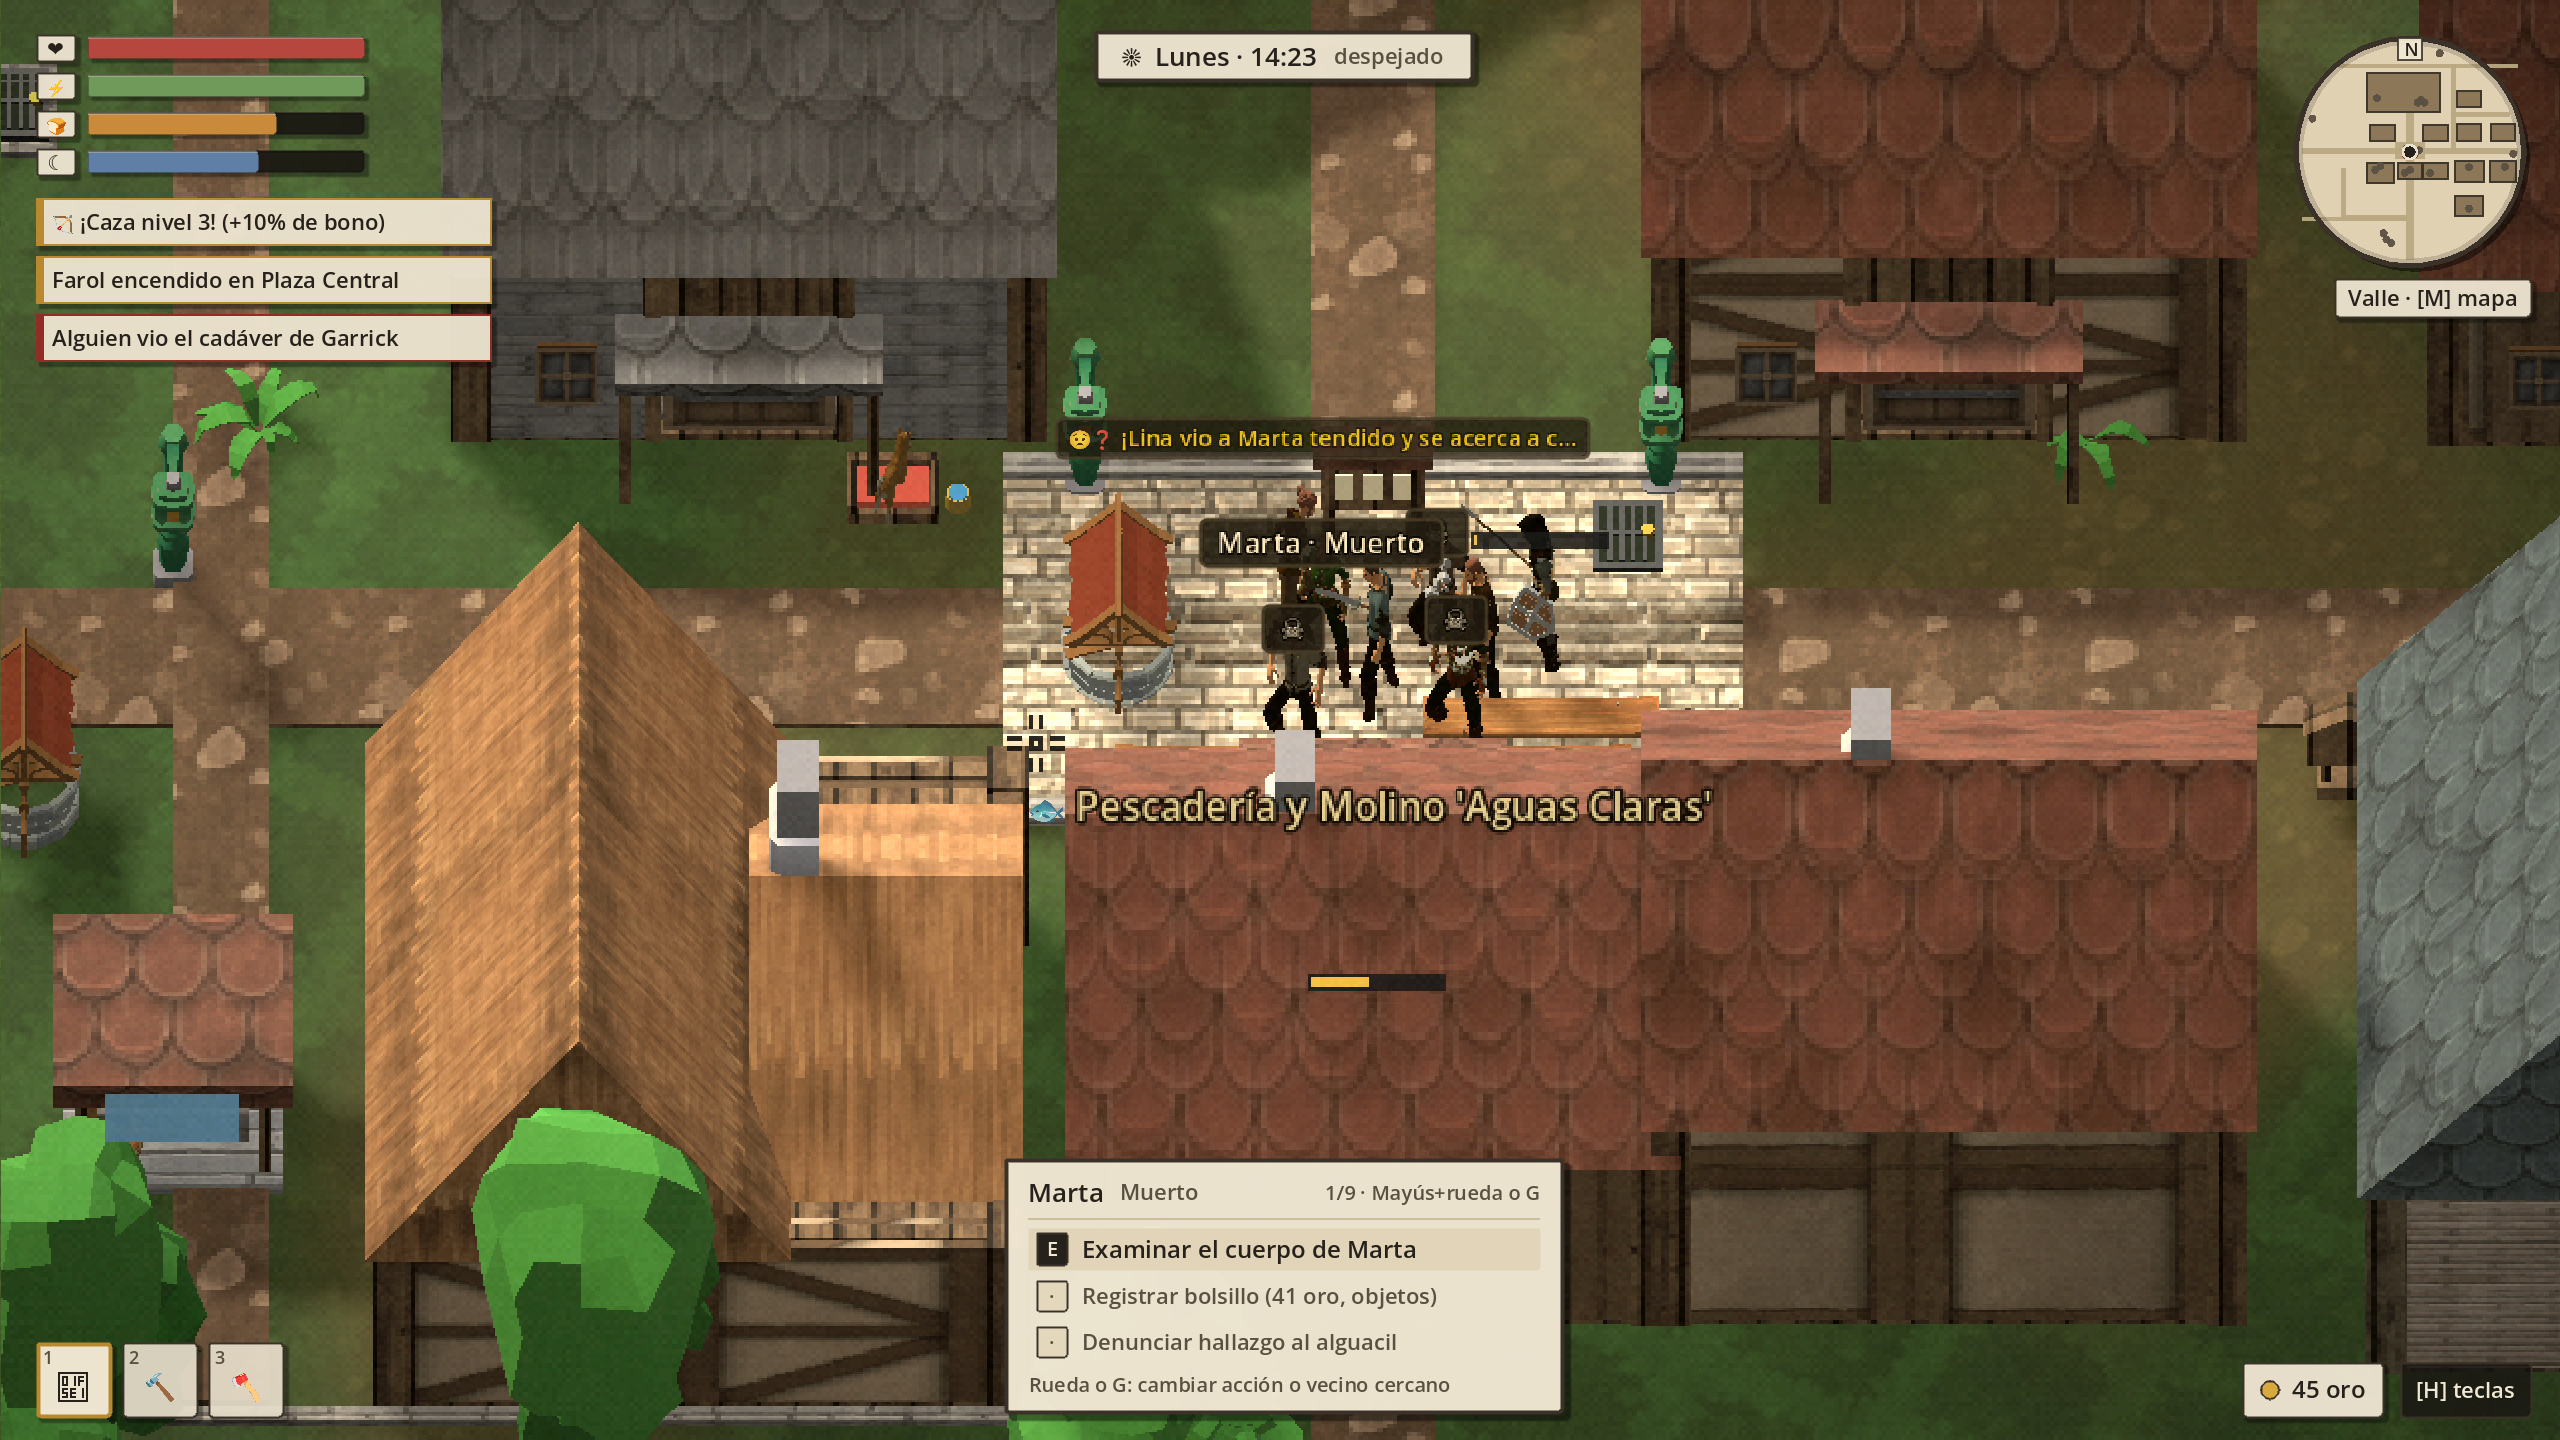
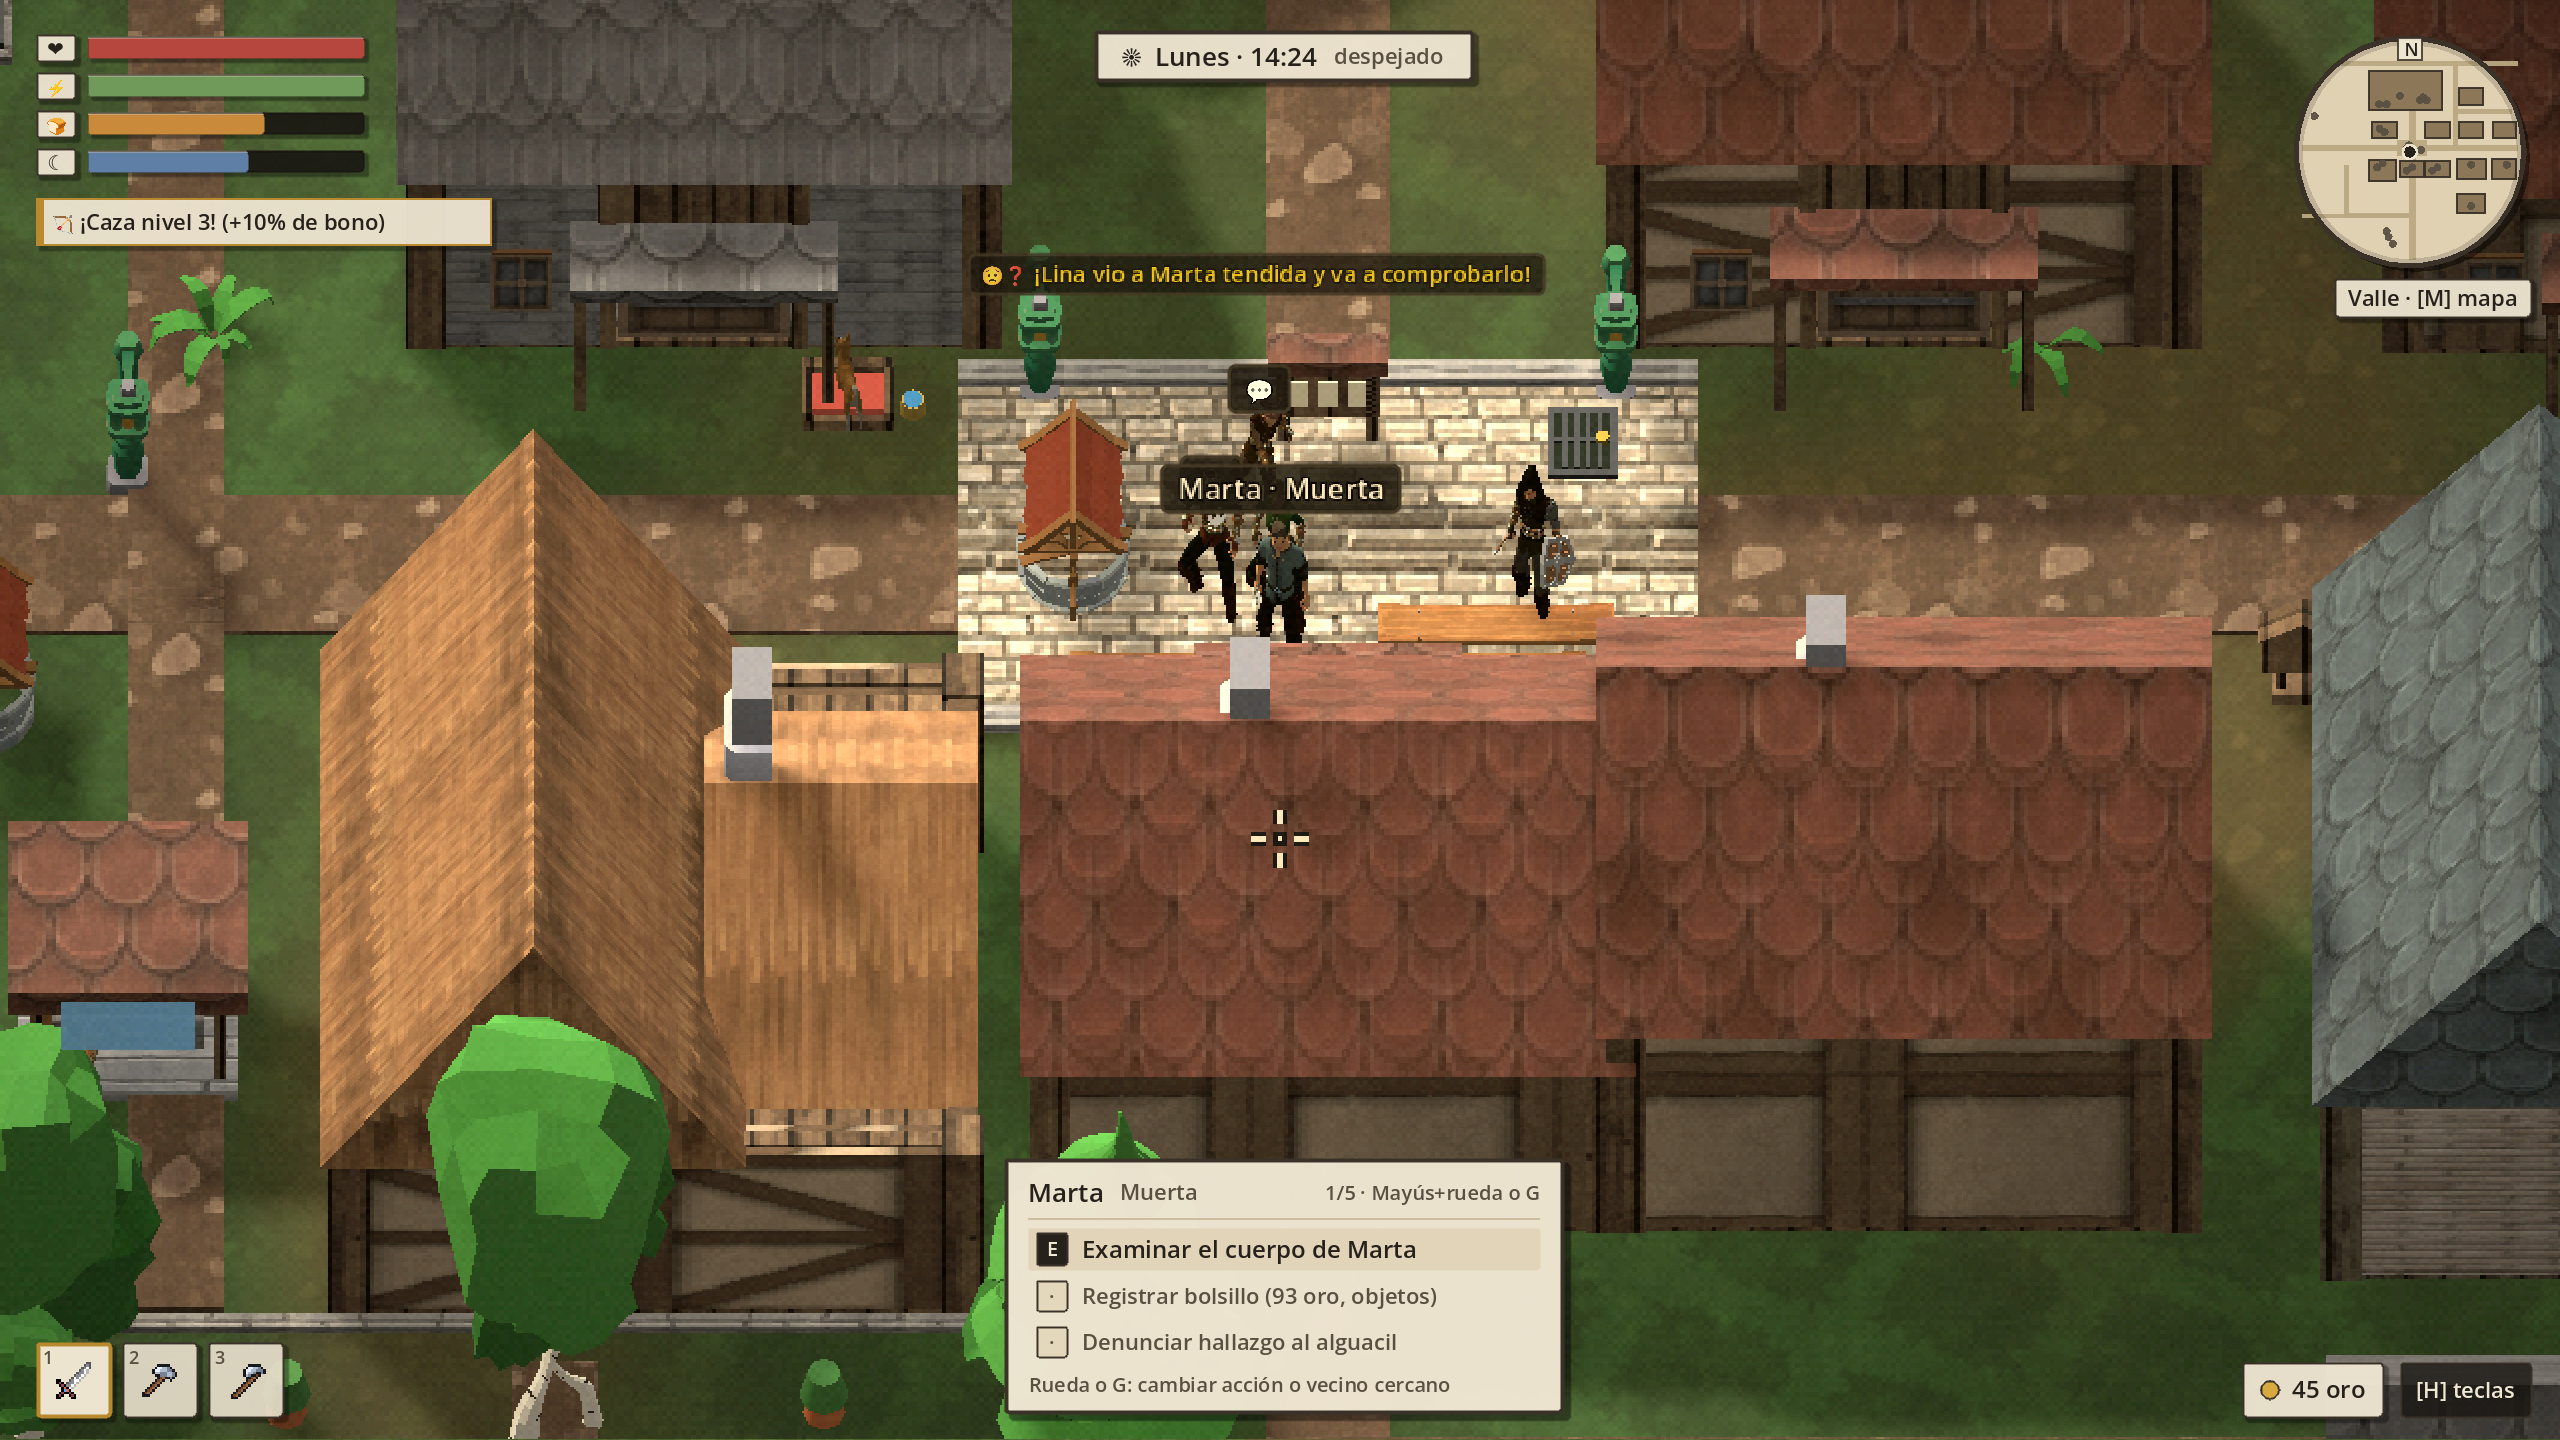
fix(ui): resolve 5 details from Claude review on paper-and-ink HUD

diff --git a/docs/FALLOS_VISIBLES.md b/docs/FALLOS_VISIBLES.md
@@ -98,12 +98,12 @@
   la cuadrícula pasó a ser un dibujo de rombos que se repite por todo el suelo; no es natural y no le gusta. Arreglarlo
   más adelante con una hierba sin patrón visible (manchas irregulares, variación de tono).
 
-- [ ] **Revisión de Claude a la interfaz nueva** (2026-11-07, captura `ui_after_plaza_3d.png`): la mejora es grande y
+- [x] ✅ (2026-11-07) **Revisión de Claude a la interfaz nueva** (2026-11-07, captura `ui_after_plaza_3d.png`): la mejora es grande y
   se aprueba; quedan detalles pequeños: (1) **género**: «Marta · Muerto» y «vio a Marta tendido» deben ser «Muerta» y
   «tendida» (en la etiqueta, en la tarjeta de [E] y en los bocadillos); (2) el nombre del edificio («Pescadería y
   Molino 'Aguas Claras'») sigue flotando en grande sobre el tejado: más pequeño o solo al acercarse; (3) una barrita
   amarilla de progreso suelta sobre el tejado, lejos de cualquier vecino; (4) el icono de la mano 1 parece letras
-  revueltas en vez de un dibujo; (5) el bocadillo de Lina sale cortado con «…». Arreglar sin rehacer nada más.
+  revueltas en vez de un dibujo; (5) el bocadillo de Lina sale cortado con «…». Arreglar sin rehacer nada más (`VillageNPC.gd`, `InteractionSelector.gd`, `FloatingText.gd`, `VillageManager.gd`, `DomesticPet.gd`, `scenes/ui_root.gd`: añadido `is_female()` para concordancia femenina «Muerta» / «tendida» en etiqueta, tarjeta `[E]` y bocadillos; reducido el tamaño y radio de aparición de títulos de edificio anclándolos a su puerta y ocultándolos al enfocar a un vecino; ocultada la barra de progreso 2D de vecinos no enfocados o dentro de edificios; usado el icono real `TextureRect` de cada arma/herramienta en los 3 huecos de manos; y ampliado el límite de `FloatingText` con frase concisa sin corte «…»; comprobado en `docs/capturas_arreglos/ui_after_plaza_3d.png`).
 
 - [ ] **Partida del usuario tras la interfaz nueva** (2026-11-07 23:00, capturas del usuario, 3D):
   (1) **El mapa grande [M] sigue con el estilo viejo** (azul oscuro, letras amarillas): solo cambió el minimapa. Pasarlo
